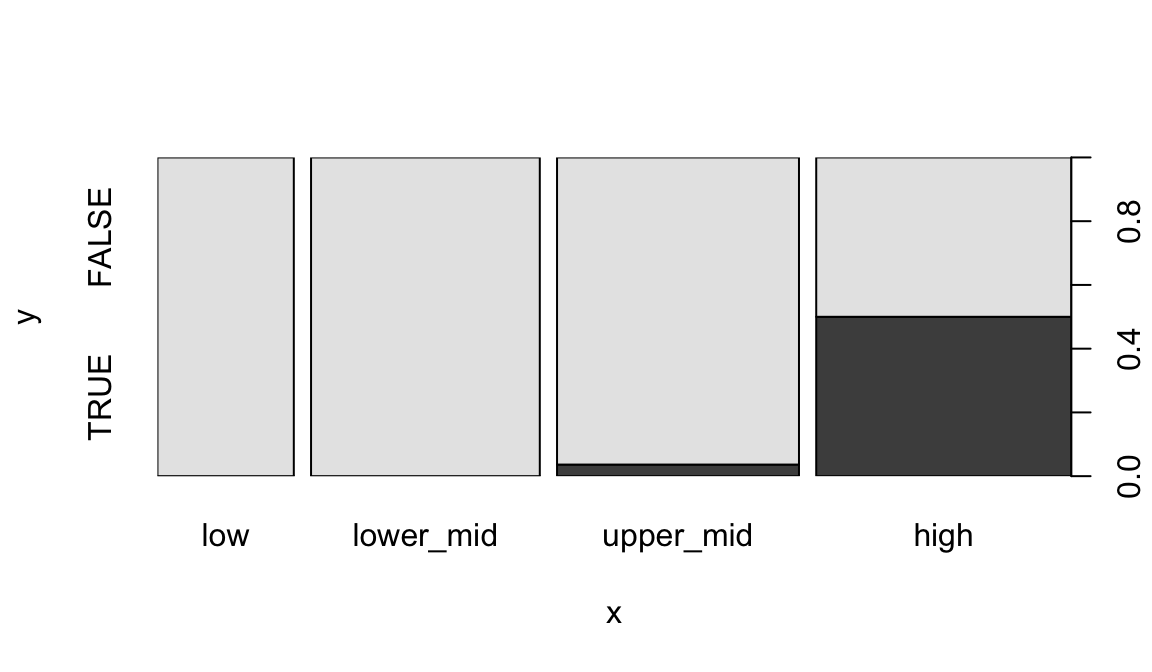
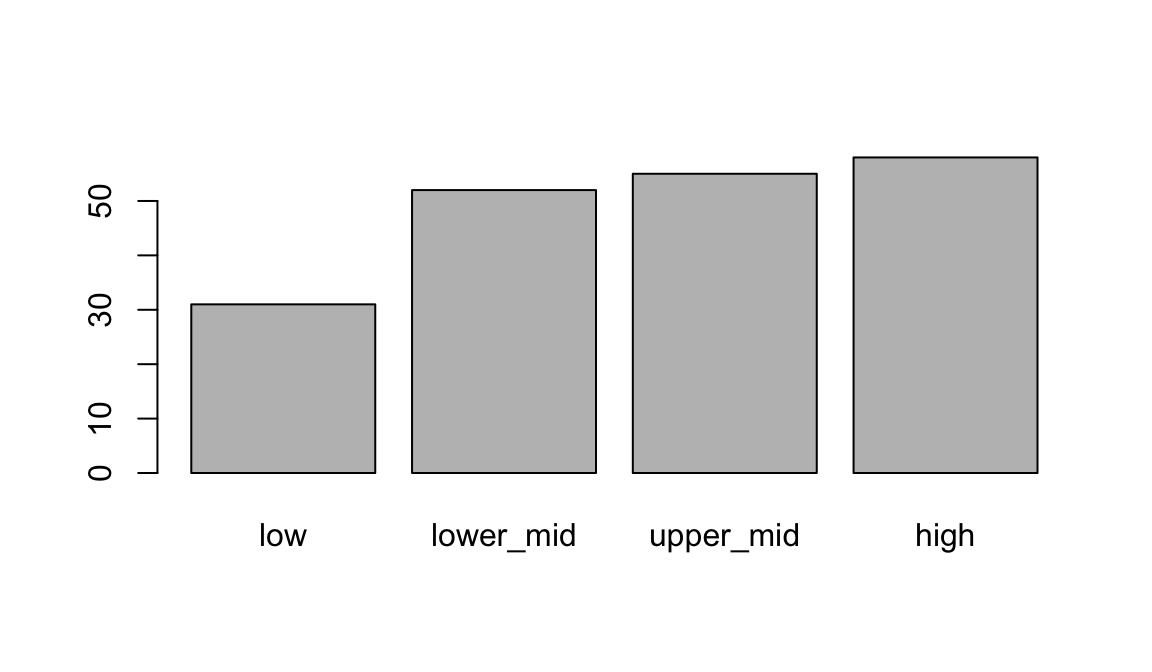
Add a teaching report. Minor formatting fix.

diff --git a/docs/data_frames.html b/docs/data_frames.html
@@ -378,7 +378,9 @@ Tip
 <section id="exploring" class="level2" data-number="2.3">
 <h2 data-number="2.3" class="anchored" data-anchor-id="exploring"><span class="header-section-number">2.3</span> Exploring</h2>
 <p>The <code>View</code> function gives us a spreadsheet-like view of the data frame.</p>
-<pre><code>View(geo)</code></pre>
+<div class="cell" data-layout-align="center">
+<div class="sourceCode cell-code" id="cb11"><pre class="sourceCode r code-with-copy"><code class="sourceCode r"><span id="cb11-1"><a href="#cb11-1" aria-hidden="true" tabindex="-1"></a><span class="fu">View</span>(geo)</span></code><button title="Copy to Clipboard" class="code-copy-button"><i class="bi"></i></button></pre></div>
+</div>
 <p><code>print</code> with the <code>n</code> argument can be used to show more than the first 10 rows on the console.</p>
 <div class="cell" data-layout-align="center">
 <div class="sourceCode cell-code" id="cb12"><pre class="sourceCode r code-with-copy"><code class="sourceCode r"><span id="cb12-1"><a href="#cb12-1" aria-hidden="true" tabindex="-1"></a><span class="fu">print</span>(geo, <span class="at">n=</span><span class="dv">200</span>)</span></code><button title="Copy to Clipboard" class="code-copy-button"><i class="bi"></i></button></pre></div>
@@ -533,7 +535,7 @@ Tip
 <div class="cell-output-display">
 <div class="quarto-figure quarto-figure-center">
 <figure class="figure">
-<p><img src="data_frames_files/figure-html/unnamed-chunk-17-1.png" class="img-fluid quarto-figure quarto-figure-center figure-img" width="576"></p>
+<p><img src="data_frames_files/figure-html/unnamed-chunk-18-1.png" class="img-fluid quarto-figure quarto-figure-center figure-img" width="576"></p>
 </figure>
 </div>
 </div>
@@ -723,7 +725,7 @@ Levels: low lower_mid upper_mid high</code></pre>
 <div class="cell-output-display">
 <div class="quarto-figure quarto-figure-center">
 <figure class="figure">
-<p><img src="data_frames_files/figure-html/unnamed-chunk-27-1.png" class="img-fluid quarto-figure quarto-figure-center figure-img" width="576"></p>
+<p><img src="data_frames_files/figure-html/unnamed-chunk-28-1.png" class="img-fluid quarto-figure quarto-figure-center figure-img" width="576"></p>
 </figure>
 </div>
 </div>
@@ -734,7 +736,7 @@ Levels: low lower_mid upper_mid high</code></pre>
 <div class="cell-output-display">
 <div class="quarto-figure quarto-figure-center">
 <figure class="figure">
-<p><img src="data_frames_files/figure-html/unnamed-chunk-28-1.png" class="img-fluid quarto-figure quarto-figure-center figure-img" width="576"></p>
+<p><img src="data_frames_files/figure-html/unnamed-chunk-29-1.png" class="img-fluid quarto-figure quarto-figure-center figure-img" width="576"></p>
 </figure>
 </div>
 </div>

diff --git a/README.md b/README.md
@@ -28,13 +28,13 @@ make ingest
 5.00pm    End Workshop
 ```
 
-Alternatively the workshop can be run over two half days. Participants may find the two-day format easier to keep up with.
+Alternatively the workshop can be run over two half days of about 4 hours each. Participants may find the two-day format easier to keep up with.
 
-`opening_slides_template.pptx` can be used as a template for an opening slideshow. It's traditional to use etherpad in Carpentries-style workshops. Fill in instructor names and the location of your workshop etherpad. An alternative to etherpad that we have used in recent years is a Google Doc plus a Slack channel. Or you can simply make the Google Doc editable by everyone. The workshop etherpad or the Google Doc serves as the central jumping off point for the workshop, and should list at the top:
+It's traditional to use etherpad in Carpentries-style workshops. An alternative to etherpad that we have used in recent years is a Google Doc plus a Slack channel. Or you can simply make the Google Doc editable by everyone. The workshop etherpad or the Google Doc serves as the central jumping off point for the workshop, and should list at the top:
 
 * schedule
 * link to this workshop material
-* link to RStudio Cloud
+* link to Posit Cloud and/or instructions for installing R and RStudio locally
 
 
 ## Teaching advice
